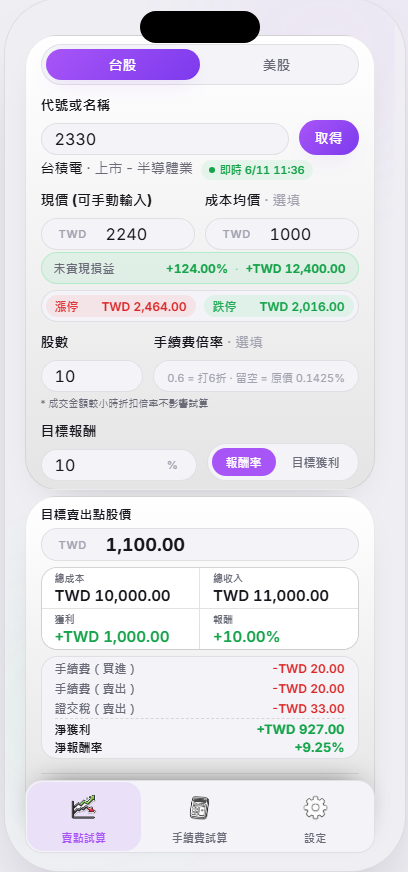
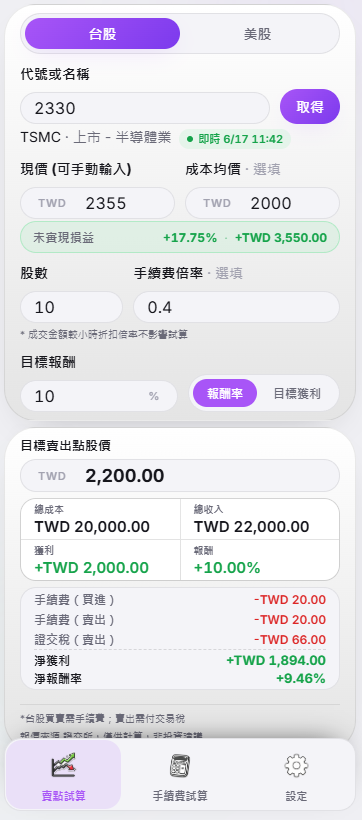
refactor: fix memory leaks and remove dead/duplicate code

diff --git a/src/App.jsx b/src/App.jsx
@@ -3,6 +3,7 @@ import { fetchPrice, searchSymbols } from './lib/fetchPrice.js';
 import { calculate } from './lib/calculate.js';
 import { twFees, isTwEtf } from './lib/twFees.js';
 import { translations, detectLang, detectMarket } from './lib/i18n.js';
+import { fmt } from './lib/format.js';
 import BottomNav from './components/BottomNav.jsx';
 import FeeDiscountPage from './components/FeeDiscountPage.jsx';
 import SettingsPage from './components/SettingsPage.jsx';
@@ -23,11 +24,6 @@ function detectTheme() {
   } catch {}
   return 'dark';
 }
-
-const fmt = (n, digits = 2) =>
-  Number.isFinite(n)
-    ? n.toLocaleString(undefined, { minimumFractionDigits: digits, maximumFractionDigits: digits })
-    : '—';
 
 // Render a trade timestamp in Taiwan time. Live quote → "6/4 13:25". Stale
 // previous-close → "5/20". TPE timezone is forced so the label is the
@@ -126,10 +122,13 @@ export default function App() {
   const [suggestions, setSuggestions] = useState([]);
   const [showSug, setShowSug] = useState(false);
   const [sugIdx, setSugIdx] = useState(-1);
-  const typingRef = useRef(false);
+  const typingRef    = useRef(false);
+  const blurTimerRef = useRef(null);
   // Last successfully fetched symbol — used to clear the per-position cost
   // basis when the user moves to a different stock.
-  const lastSymRef = useRef(null);
+  const lastSymRef   = useRef(null);
+  const mountedRef   = useRef(true);
+  const fetchIdRef   = useRef(0);
 
   // 手續費折數頁的輸入提升到 App，讓切換分頁時保留（重新整理/關閉 App 才重置）。
   const [feeAmount, setFeeAmount]   = useState('');
@@ -146,9 +145,14 @@ export default function App() {
     // below re-triggers the type-ahead effect — popping the dropdown open
     // again over the freshly fetched quote.
     typingRef.current = false;
+    const fetchId = ++fetchIdRef.current;
+    // True once a newer fetch has started or the component unmounted — used to
+    // skip setState on a stale/late response (race guard + unmount leak guard).
+    const stale = () => fetchIdRef.current !== fetchId || !mountedRef.current;
     setFetchState({ status: 'loading', msg: '' });
     try {
       const r = await fetchPrice(sym, mkt);
+      if (stale()) return;
       // Cost basis belongs to ONE position. Fetching a different symbol
       // (incl. cross-market switches) silently comparing the old cost
       // against the new stock's price would show a nonsense unrealized
@@ -171,6 +175,7 @@ export default function App() {
       // msg is only rendered for errors; success state needs no text.
       setFetchState({ status: 'success', msg: '' });
     } catch (e) {
+      if (stale()) return;
       setFetchState({ status: 'error', msg: e.message });
     }
   }, []);
@@ -231,6 +236,15 @@ export default function App() {
     setMeta(null);
     onFetch(def, market);
   }, [market, onFetch]);
+
+  // Unmount teardown: cancel any pending blur timer (Leak 1) and mark the
+  // component dead so in-flight onFetch calls skip setState (Leak 2).
+  useEffect(() => {
+    return () => {
+      mountedRef.current = false;
+      clearTimeout(blurTimerRef.current);
+    };
+  }, []);
 
   // --- derived --------------------------------------------------------------
   // calculate() returns null on invalid input (never throws), which the UI
@@ -313,7 +327,7 @@ export default function App() {
                 onChange={(e) => { typingRef.current = true; setSymbol(e.target.value); }}
                 onKeyDown={onSymbolKeyDown}
                 onFocus={() => { if (suggestions.length) setShowSug(true); }}
-                onBlur={() => setTimeout(() => setShowSug(false), 120)}
+                onBlur={() => { clearTimeout(blurTimerRef.current); blurTimerRef.current = setTimeout(() => setShowSug(false), 120); }}
                 placeholder={t.placeholder[market]}
                 autoComplete="off"
                 spellCheck={false}

diff --git a/src/lib/format.js b/src/lib/format.js
@@ -1,0 +1,9 @@
+// Shared number formatter.
+//
+// Locale-grouped fixed-decimal string for money/percent display, with a
+// neutral em-dash placeholder for non-finite input (blank/NaN). Shared by
+// App.jsx and FeeDiscountPage.jsx so the two pages format identically.
+export const fmt = (n, digits = 2) =>
+  Number.isFinite(n)
+    ? n.toLocaleString(undefined, { minimumFractionDigits: digits, maximumFractionDigits: digits })
+    : '—';

diff --git a/src/components/FeeDiscountPage.jsx b/src/components/FeeDiscountPage.jsx
@@ -1,11 +1,7 @@
 import { useMemo } from 'react';
 import { feeDiscount } from '../lib/feeDiscount.js';
 import { asset } from '../lib/asset.js';
-
-const fmt = (n, digits = 2) =>
-  Number.isFinite(n)
-    ? n.toLocaleString(undefined, { minimumFractionDigits: digits, maximumFractionDigits: digits })
-    : '—';
+import { fmt } from '../lib/format.js';
 
 export default function FeeDiscountPage({ t, lang, amount, setAmount, feePaid, setFeePaid }) {
   const result = useMemo(

diff --git a/src/lib/calculate.js b/src/lib/calculate.js
@@ -60,7 +60,7 @@ export function calculate({ currentPrice, amount, mode, targetValue, costBasis }
   const profit       = totalRevenue - totalCost;
   const profitPct    = (profit / totalCost) * 100;
 
-  return { targetPrice, totalCost, totalRevenue, profit, profitPct, basis };
+  return { targetPrice, totalCost, totalRevenue, profit, profitPct };
 }
 
 // ─── tiny self-test you can run with `node src/lib/calculate.js` ───

diff --git a/src/lib/i18n.js b/src/lib/i18n.js
@@ -16,7 +16,6 @@ export const translations = {
     fetching: 'Fetching…',
     currentPrice: 'Current price',
     costBasis: 'Avg cost',
-    costBasisHint: 'Your average buy price · optional',
     unrealizedLabel: 'Unrealized',
     shares: 'Shares',
     percentMode: '% return',
@@ -85,7 +84,6 @@ export const translations = {
     fetching: '查詢中…',
     currentPrice: '現價 (可手動輸入)',
     costBasis: '成本均價',
-    costBasisHint: '當初買進均價 · 選填',
     unrealizedLabel: '未實現損益',
     shares: '股數',
     percentMode: '報酬率',

diff --git a/src/lib/feeDiscount.js b/src/lib/feeDiscount.js
@@ -33,6 +33,7 @@ export function feeDiscount({ amount, feePaid }) {
 
   const baseFee = a * COMMISSION_RATE;        // full-rate commission
   if (baseFee <= 0) return null;
+  if (f > baseFee) return null;               // fee paid exceeds full rate — nonsensical discount
 
   const discount      = f / baseFee;           // e.g. 0.60
   const zhe           = discount * 10;          // e.g. 6.0 折